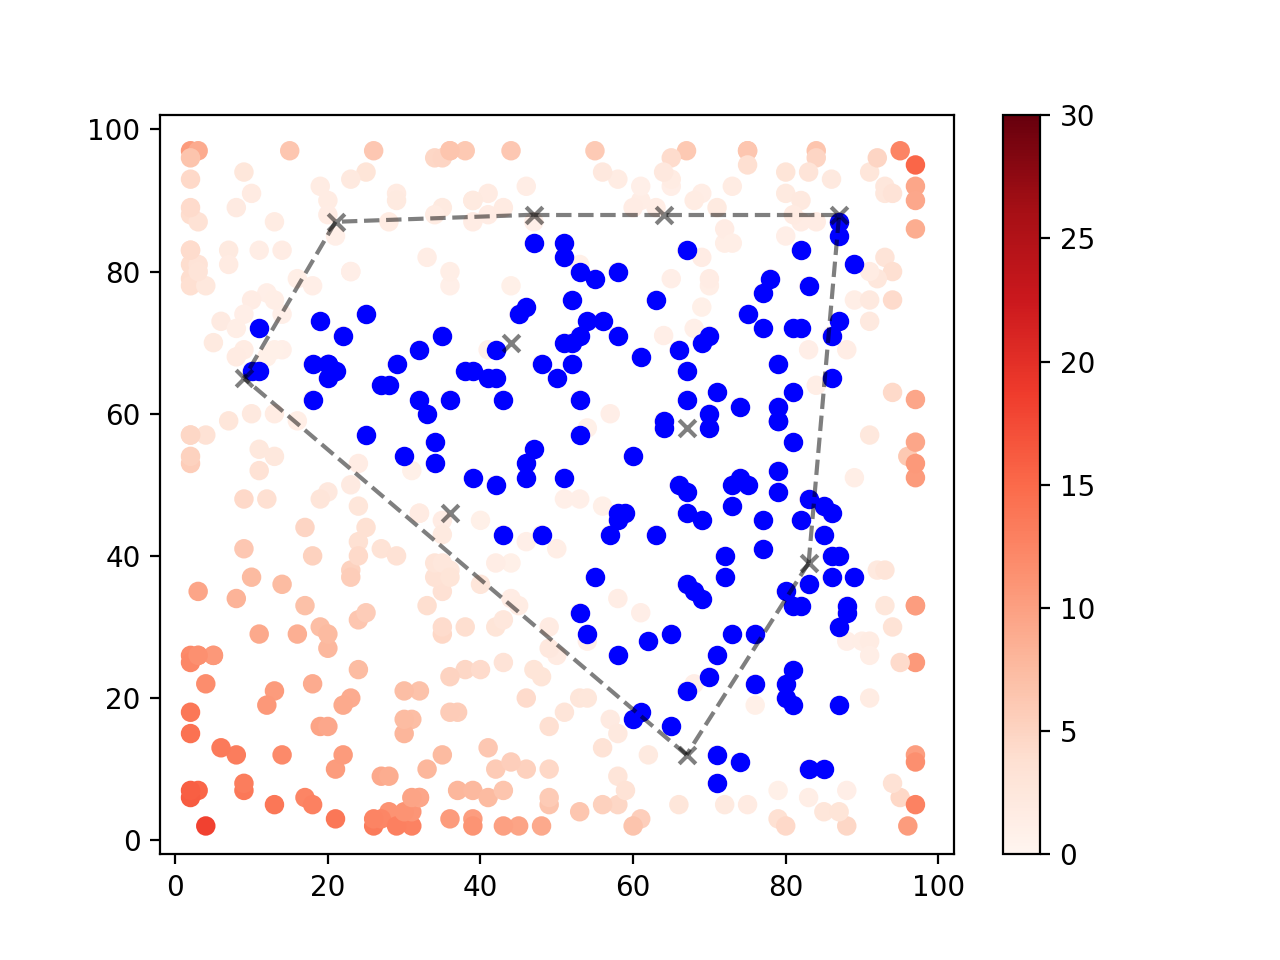
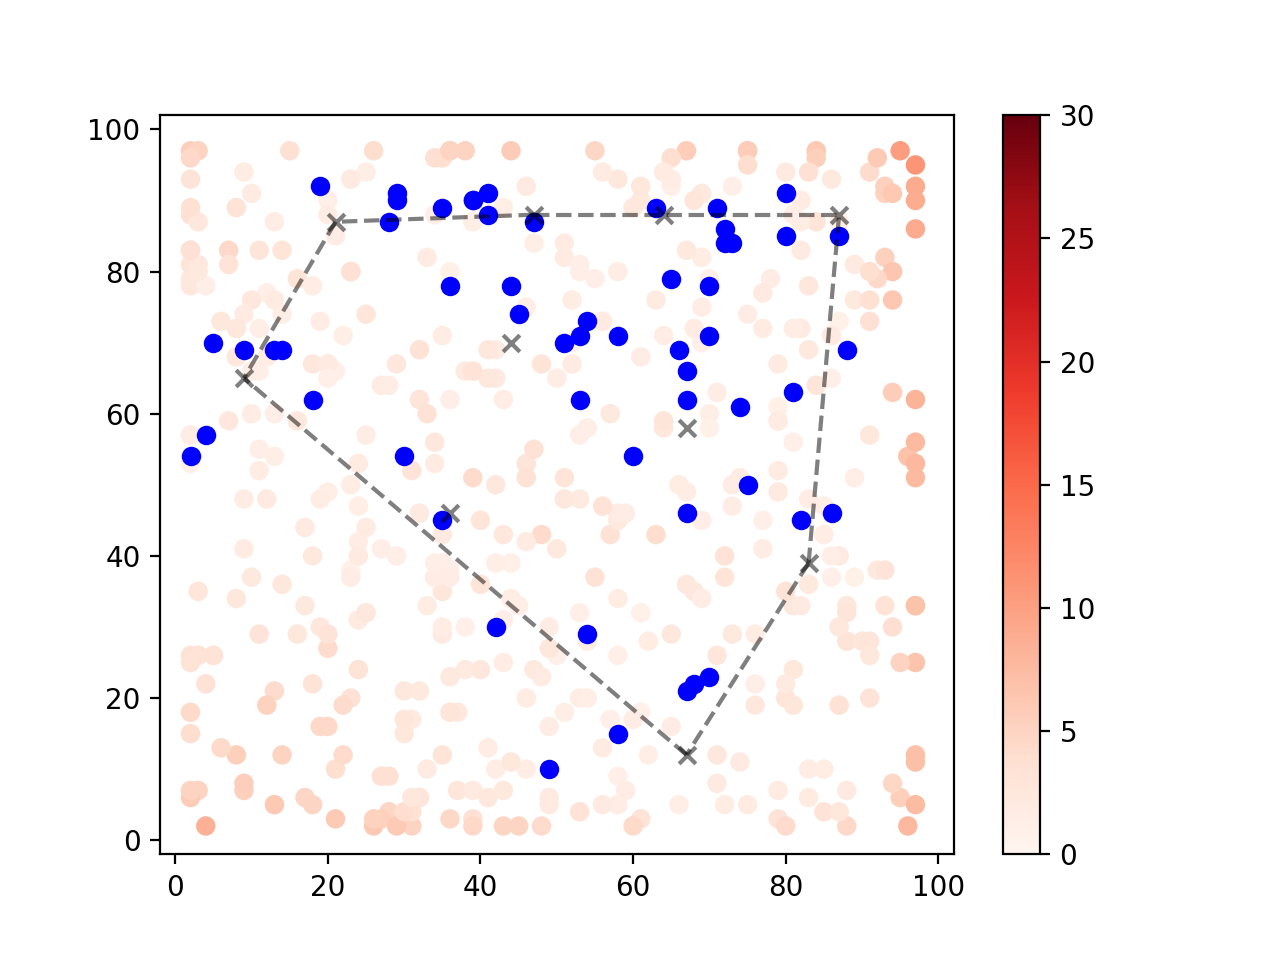
Better hyperparams.

diff --git a/plot.py b/plot.py
@@ -30,6 +30,7 @@ def eval(
     dataloaders: Dict[str, torch.utils.data.DataLoader],
 ) -> Tuple[np.ndarray, np.ndarray, np.ndarray]:
     total_mse = 0.0
+    num_small_err = 0
     pixel_error = []
     for batch in tqdm(dataloaders["test"]):
         input, target = batch
@@ -39,21 +40,24 @@ def eval(
         pred_unscaled = np.array(prediction)
         pred_unscaled += 1
         pred_unscaled /= 2
-        pred_unscaled[:, 0] *= dataloaders["test"].dataset.resolution[0]
-        pred_unscaled[:, 1] *= dataloaders["test"].dataset.resolution[1]
+        pred_unscaled[:, 0] *= dataloaders["test"].dataset.resolution[0] - 1
+        pred_unscaled[:, 1] *= dataloaders["test"].dataset.resolution[1] - 1
 
         target_unscaled = np.array(target)
         target_unscaled += 1
         target_unscaled /= 2
-        target_unscaled[:, 0] *= dataloaders["test"].dataset.resolution[0]
-        target_unscaled[:, 1] *= dataloaders["test"].dataset.resolution[1]
+        target_unscaled[:, 0] *= dataloaders["test"].dataset.resolution[0] - 1
+        target_unscaled[:, 1] *= dataloaders["test"].dataset.resolution[1] - 1
 
         diff = pred_unscaled - target_unscaled
-        pixel_error.append(np.linalg.norm(diff, axis=1))
+        error = np.linalg.norm(diff, axis=1)
+        num_small_err += len(error[error < 1.0])
+        pixel_error.append(error)
         total_mse += (diff ** 2).mean(axis=1).sum()
 
-    average_mse = total_mse / len(dataloaders["test"].dataset)
-    print(f"Test set MSE: {average_mse}")
+    total_test = len(dataloaders["test"].dataset)
+    average_mse = total_mse / total_test
+    print(f"Test set MSE: {average_mse} ({num_small_err}/{total_test})")
 
     pixel_error = np.concatenate(pixel_error)
     test_coords = dataloaders["test"].dataset.coordinates
@@ -106,8 +110,7 @@ def plot(
     )
 
     # Add convext hull of train set.
-    hull = ConvexHull(train_coords)
-    for simplex in hull.simplices:
+    for simplex in ConvexHull(train_coords).simplices:
         plt.plot(
             train_coords[simplex, 0],
             train_coords[simplex, 1],

diff --git a/ibc/dataset.py b/ibc/dataset.py
@@ -125,8 +125,9 @@ class CoordinateRegression(Dataset):
 
 if __name__ == "__main__":
     import matplotlib.pyplot as plt
+    from scipy.spatial import ConvexHull
 
-    dataset = CoordinateRegression(DatasetConfig(dataset_size=100))
+    dataset = CoordinateRegression(DatasetConfig(dataset_size=30, seed=0))
 
     # Visualize one instance.
     image, target = dataset[np.random.randint(len(dataset))]
@@ -134,11 +135,36 @@ if __name__ == "__main__":
     plt.imshow(image.permute(1, 2, 0).numpy())
     plt.show()
 
-    # Plot target distribution.
+    # Plot target distribution and convex hull.
     targets = dataset.coordinates
     plt.scatter(targets[:, 0], targets[:, 1], marker="x", c="black")
-    plt.xlim(0 - 2, dataset.resolution[1] + 2)
-    plt.ylim(0 - 2, dataset.resolution[0] + 2)
+    for simplex in ConvexHull(targets).simplices:
+        plt.plot(
+            targets[simplex, 0],
+            targets[simplex, 1],
+            "--",
+            zorder=2,
+            alpha=0.5,
+            c="black",
+        )
+    plt.xlim(0, dataset.resolution[1])
+    plt.ylim(0, dataset.resolution[0])
+    plt.show()
+
+    # Plot target distribution and convex hull.
+    targets = dataset.coordinates_scaled
+    plt.scatter(targets[:, 0], targets[:, 1], marker="x", c="black")
+    for simplex in ConvexHull(targets).simplices:
+        plt.plot(
+            targets[simplex, 0],
+            targets[simplex, 1],
+            "--",
+            zorder=2,
+            alpha=0.5,
+            c="black",
+        )
+    plt.xlim(-1, 1)
+    plt.ylim(-1, 1)
     plt.show()
 
     print(f"Target bounds:")

diff --git a/train.py b/train.py
@@ -33,6 +33,7 @@ class TrainConfig:
     checkpoint_every_n_steps: int = 100
     eval_every_n_steps: int = 200
     policy_type: trainer.PolicyType = trainer.PolicyType.EXPLICIT
+    stochastic_optimizer_train_samples: int = 64
 
 
 def make_dataloaders(
@@ -119,7 +120,10 @@ def make_train_state(
         )
     else:
         target_bounds = train_dataloader.dataset.get_target_bounds()
-        stochastic_optim_config = optimizers.DerivativeFreeConfig(bounds=target_bounds)
+        stochastic_optim_config = optimizers.DerivativeFreeConfig(
+            bounds=target_bounds,
+            train_samples=train_config.stochastic_optimizer_train_samples,
+        )
 
         train_state = trainer.ImplicitTrainState.initialize(
             model_config=model_config,
